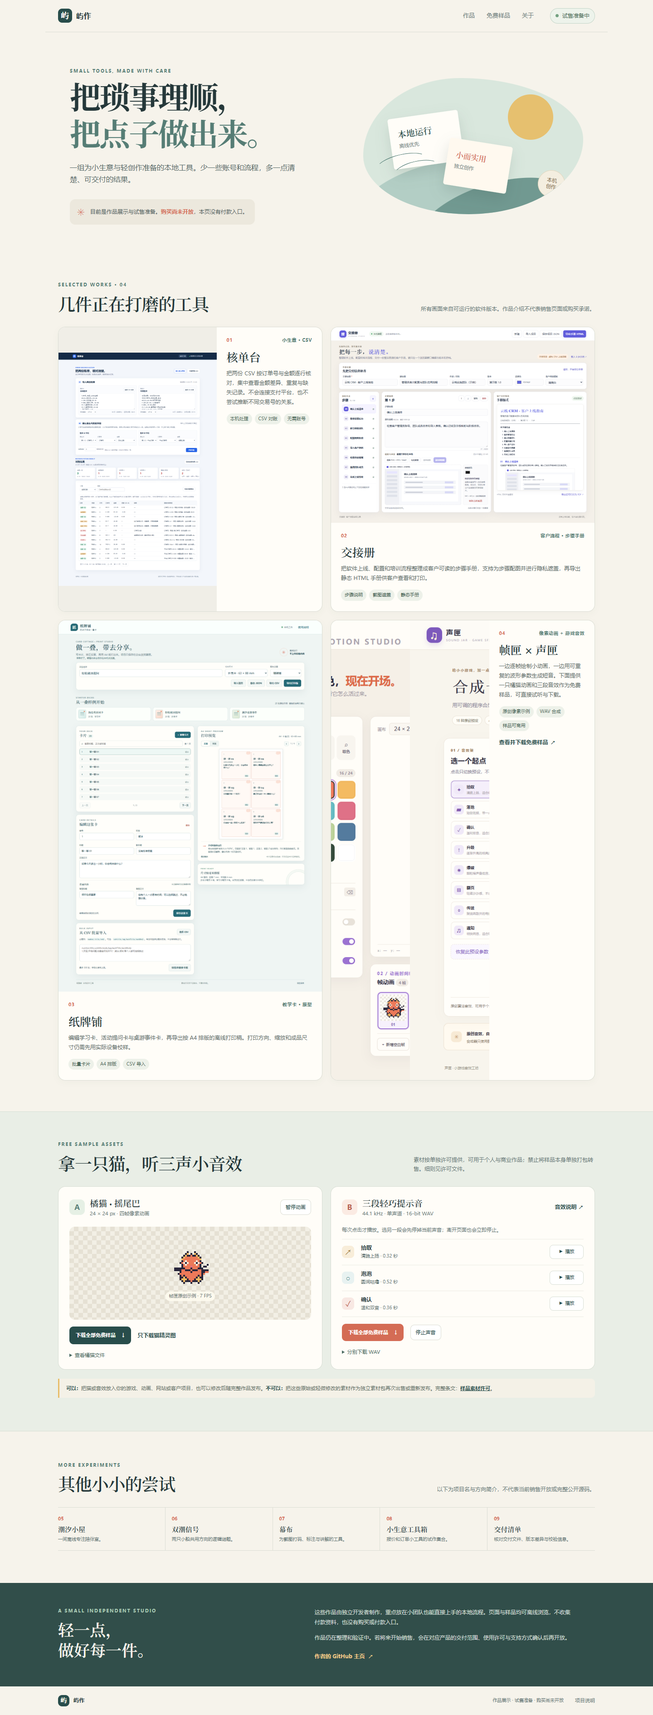
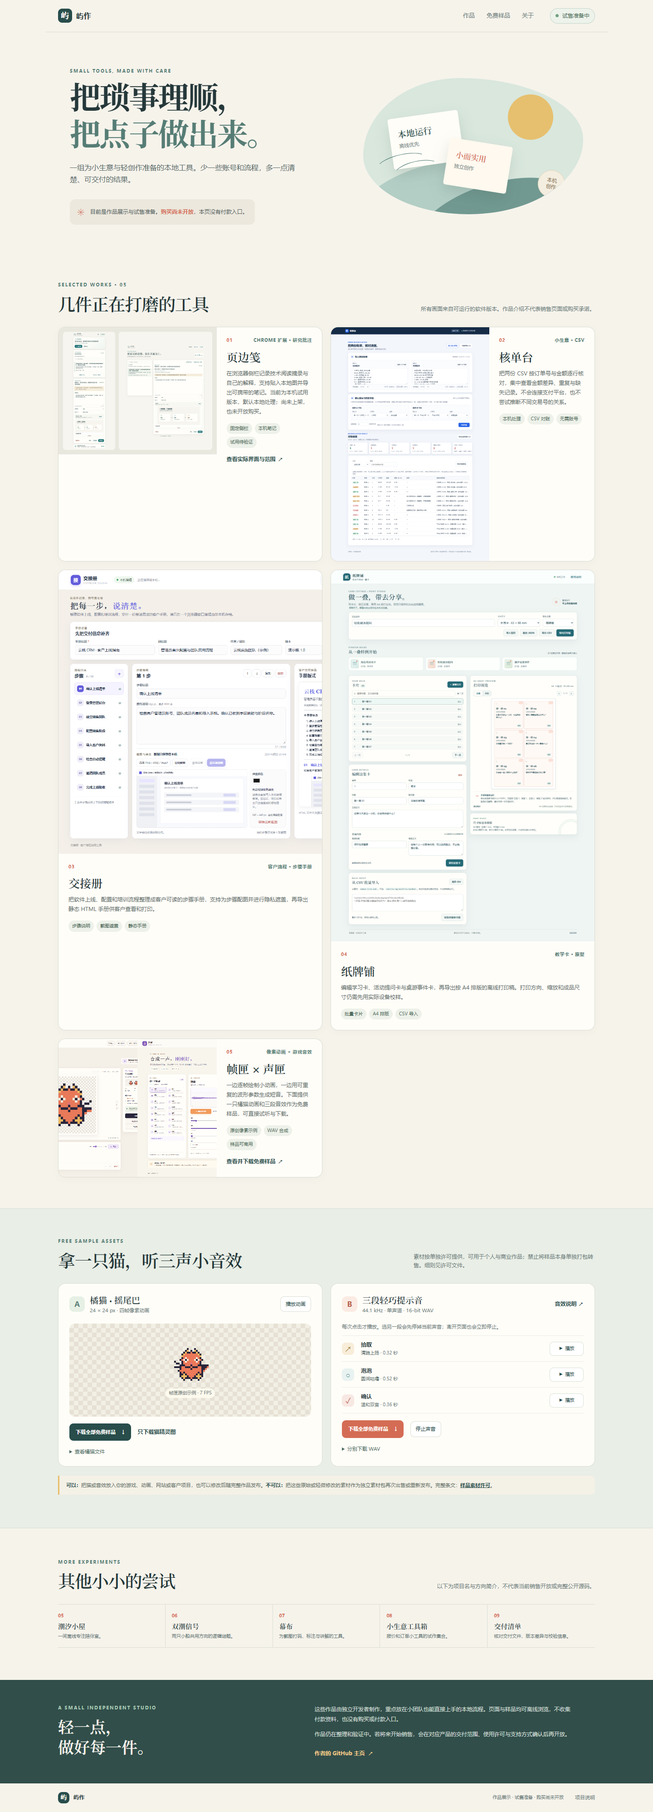
Preserve exact release bytes across clean Git checkouts

diff --git a/index.html b/index.html
@@ -33,23 +33,27 @@
     </section>
 
     <section id="featured" class="section" aria-labelledby="featured-title">
-      <div class="section-heading"><div><p class="eyebrow">SELECTED WORKS · 04</p><h2 id="featured-title">几件正在打磨的工具</h2></div><p>所有画面来自可运行的软件版本。作品介绍不代表销售页面或购买承诺。</p></div>
+      <div class="section-heading"><div><p class="eyebrow">SELECTED WORKS · 05</p><h2 id="featured-title">几件正在打磨的工具</h2></div><p>所有画面来自可运行的软件版本。作品介绍不代表销售页面或购买承诺。</p></div>
       <div class="work-grid">
+        <article class="work-card feature-wide page-margin-card">
+          <div class="work-shot twin-shots page-margin-shots"><img src="media/page-margin-sidepanel.png" alt="页边笺 Chrome 侧栏界面，显示本地试用状态、当前页面和一条示例批注" loading="lazy"><img src="media/page-margin-library.png" alt="页边笺笔记库界面，显示本地示例批注" loading="lazy"></div>
+          <div class="work-copy"><div class="card-kicker"><span>01</span><span>Chrome 扩展 · 研究批注</span></div><h3>页边笺</h3><p>在浏览器侧栏记录技术阅读摘录与自己的解释，支持贴入本地图并导出可携带的笔记。当前为本机试用版本，默认本地处理；尚未上架，也未开放购买。</p><div class="tag-row"><span>固定侧栏</span><span>本机笔记</span><span>试用待验证</span></div><a class="text-link" href="page-margin-preview.html">查看实际界面与范围 <span aria-hidden="true">↗</span></a></div>
+        </article>
         <article class="work-card feature-wide">
           <div class="work-shot shot-tall"><img src="media/reconcile-station.png" alt="核单台离线 CSV 账单比对界面截图" loading="lazy"></div>
-          <div class="work-copy"><div class="card-kicker"><span>01</span><span>小生意 · CSV</span></div><h3>核单台</h3><p>把两份 CSV 按订单号与金额逐行核对，集中查看金额差异、重复与缺失记录。不会连接支付平台，也不尝试推断不同交易号的关系。</p><div class="tag-row"><span>本机处理</span><span>CSV 对账</span><span>无需账号</span></div></div>
+          <div class="work-copy"><div class="card-kicker"><span>02</span><span>小生意 · CSV</span></div><h3>核单台</h3><p>把两份 CSV 按订单号与金额逐行核对，集中查看金额差异、重复与缺失记录。不会连接支付平台，也不尝试推断不同交易号的关系。</p><div class="tag-row"><span>本机处理</span><span>CSV 对账</span><span>无需账号</span></div></div>
         </article>
         <article class="work-card">
           <div class="work-shot"><img src="media/stepbook.png" alt="交接册客户步骤说明书编辑与预览界面截图" loading="lazy"></div>
-          <div class="work-copy"><div class="card-kicker"><span>02</span><span>客户流程 · 步骤手册</span></div><h3>交接册</h3><p>把软件上线、配置和培训流程整理成客户可读的步骤手册，支持为步骤配图并进行隐私遮盖，再导出静态 HTML 手册供客户查看和打印。</p><div class="tag-row"><span>步骤说明</span><span>截图遮盖</span><span>静态手册</span></div></div>
+          <div class="work-copy"><div class="card-kicker"><span>03</span><span>客户流程 · 步骤手册</span></div><h3>交接册</h3><p>把软件上线、配置和培训流程整理成客户可读的步骤手册，支持为步骤配图并进行隐私遮盖，再导出静态 HTML 手册供客户查看和打印。</p><div class="tag-row"><span>步骤说明</span><span>截图遮盖</span><span>静态手册</span></div></div>
         </article>
         <article class="work-card">
           <div class="work-shot"><img src="media/card-cottage.png" alt="纸牌铺 A4 双面卡片排版预览界面截图" loading="lazy"></div>
-          <div class="work-copy"><div class="card-kicker"><span>03</span><span>教学卡 · 原型</span></div><h3>纸牌铺</h3><p>编辑学习卡、活动提问卡与桌游事件卡，再导出按 A4 排版的离线打印稿。打印方向、缩放和成品尺寸仍需先用实际设备校样。</p><div class="tag-row"><span>批量卡片</span><span>A4 排版</span><span>CSV 导入</span></div></div>
+          <div class="work-copy"><div class="card-kicker"><span>04</span><span>教学卡 · 原型</span></div><h3>纸牌铺</h3><p>编辑学习卡、活动提问卡与桌游事件卡，再导出按 A4 排版的离线打印稿。打印方向、缩放和成品尺寸仍需先用实际设备校样。</p><div class="tag-row"><span>批量卡片</span><span>A4 排版</span><span>CSV 导入</span></div></div>
         </article>
         <article class="work-card feature-wide">
           <div class="work-shot twin-shots"><img src="media/frame-studio.png" alt="帧匣像素帧编辑界面截图" loading="lazy"><img src="media/sound-studio.png" alt="声匣音效编辑器界面截图" loading="lazy"></div>
-          <div class="work-copy"><div class="card-kicker"><span>04</span><span>像素动画 + 游戏音效</span></div><h3>帧匣 × 声匣</h3><p>一边逐帧绘制小动画，一边用可重复的波形参数生成短音。下面提供一只橘猫动画和三段音效作为免费样品，可直接试听与下载。</p><div class="tag-row"><span>原创像素示例</span><span>WAV 合成</span><span>样品可商用</span></div><a class="text-link" href="#samples">查看并下载免费样品 <span aria-hidden="true">↗</span></a></div>
+          <div class="work-copy"><div class="card-kicker"><span>05</span><span>像素动画 + 游戏音效</span></div><h3>帧匣 × 声匣</h3><p>一边逐帧绘制小动画，一边用可重复的波形参数生成短音。下面提供一只橘猫动画和三段音效作为免费样品，可直接试听与下载。</p><div class="tag-row"><span>原创像素示例</span><span>WAV 合成</span><span>样品可商用</span></div><a class="text-link" href="#samples">查看并下载免费样品 <span aria-hidden="true">↗</span></a></div>
         </article>
       </div>
     </section>

diff --git a/page-margin-preview.html b/page-margin-preview.html
@@ -1,0 +1,41 @@
+<!doctype html>
+<html lang="zh-CN">
+<head>
+  <meta charset="utf-8">
+  <meta name="viewport" content="width=device-width, initial-scale=1">
+  <meta http-equiv="Content-Security-Policy" content="default-src 'none'; img-src 'self'; style-src 'unsafe-inline'; connect-src 'none'; object-src 'none'; base-uri 'none'; form-action 'none'; frame-src 'none'">
+  <meta name="description" content="页边笺本机 Chrome 试用版本的真实界面截图与功能范围说明。">
+  <title>页边笺 · 本机试用界面 | 屿作</title>
+  <style>
+    :root{color-scheme:light;--ink:#25383a;--muted:#647370;--paper:#fffdf8;--cream:#f6f3eb;--line:#dcded5;--teal:#386e69;--coral:#c76552;--serif:Georgia,"Noto Serif SC","Songti SC",serif;--sans:system-ui,-apple-system,"Segoe UI","Microsoft YaHei",sans-serif}
+    *{box-sizing:border-box}body{margin:0;background:var(--cream);color:var(--ink);font:16px/1.7 var(--sans)}a{color:#285c57}a:focus-visible{outline:3px solid var(--coral);outline-offset:3px}.wrap{width:min(1120px,100% - 36px);margin:auto}.top{display:flex;justify-content:space-between;align-items:center;padding:20px 0;border-bottom:1px solid var(--line);font-size:13px}.brand{font-weight:800;text-decoration:none;letter-spacing:.08em}.eyebrow{margin:0 0 8px;color:var(--teal);font-size:11px;font-weight:800;letter-spacing:.15em}.intro{padding:54px 0 34px}.intro h1{font:600 clamp(34px,5vw,54px)/1.2 var(--serif);letter-spacing:-.03em;margin:0 0 13px}.intro p{max-width:710px;color:var(--muted);margin:0}.status{display:inline-flex;margin-top:20px;padding:8px 12px;border-radius:99px;border:1px solid #ddc6af;background:#f8eee4;color:#8c523f;font-size:12px;font-weight:700}.shots{display:grid;grid-template-columns:.8fr 1.2fr;gap:16px;align-items:start}.shot{margin:0;background:var(--paper);border:1px solid var(--line);border-radius:14px;padding:12px;box-shadow:0 9px 28px #263a3210}.shot img{display:block;width:100%;height:auto;border-radius:8px;background:#f3f0e7}.shot figcaption{padding:10px 4px 2px;color:var(--muted);font-size:12px}.section{margin:42px 0;background:var(--paper);border:1px solid var(--line);border-radius:14px;padding:24px clamp(18px,4vw,36px)}h2{font:600 24px var(--serif);margin:0 0 14px}.section p{color:#566664;margin:0 0 11px}.section ul{padding-left:20px;margin:8px 0;color:#566664}.section li{margin:5px 0}.callout{padding:14px 16px;background:#edf2eb;border-left:3px solid #5a8d78;border-radius:0 9px 9px 0}.footer{padding:0 0 40px;color:var(--muted);font-size:12px}.footer a{font-weight:700}
+    @media(max-width:700px){.wrap{width:min(100% - 26px,600px)}.intro{padding:37px 0 26px}.shots{grid-template-columns:1fr;max-width:480px;margin:auto}.shot:first-child{width:min(100%,380px);justify-self:center}.section{margin:28px 0;padding:19px 17px}}
+  </style>
+</head>
+<body>
+  <header class="wrap top"><a class="brand" href="index.html">屿作 / 作品集</a><span>页边笺 · Chrome 扩展</span></header>
+  <main class="wrap">
+    <section class="intro">
+      <p class="eyebrow">LOCAL TRIAL · INTERFACE PREVIEW</p>
+      <h1>页边笺：把阅读变成可回访的笔记</h1>
+      <p>页边笺是浏览器固定侧栏中的技术阅读批注试用版，可保存摘录、个人解释与本地图片，并导出笔记。下方是本机 Chrome 中的真实界面截图，使用虚构示例内容和自制示意图，没有客户数据。</p>
+      <span class="status">本机试用 · 尚未上架 · 未开放购买</span>
+    </section>
+    <section class="shots" aria-label="页边笺实际界面截图">
+      <figure class="shot"><img src="media/page-margin-sidepanel.png" alt="本机 Chrome 页边笺侧栏，显示摘录按钮、笔记编辑器和添加图片控件"><figcaption>固定侧栏：选择页面文字后保存摘录，并添加本机图片。</figcaption></figure>
+      <figure class="shot"><img src="media/page-margin-library.png" alt="本机 Chrome 页边笺资料库，显示本地保存的示例批注和图片"><figcaption>笔记库：检索、编辑和导出已经保存的阅读批注。</figcaption></figure>
+    </section>
+    <section class="section">
+      <h2>目前试用版的处理范围</h2>
+      <p class="callout"><strong>默认本机处理。</strong>笔记和图片保存在浏览器本机扩展存储中；没有账户、同步或远程 AI 服务。此展示页只包含说明文字与界面截图，不提供扩展安装包，也没有购买或付款入口。</p>
+      <ul>
+        <li>用户主动摘录时，扩展会临时遍历当前普通网页可见正文以定位所选内容（最多处理 2,000,000 个字符或 50,000 个文本节点）；长期保存的是所选摘录及最多 120 个字符的前后文，而不是整页正文。</li>
+        <li>支持纯文本笔记、标签、边栏颜色和每条笔记最多 3 张本地图片；支持单条图文 HTML、Markdown 加图片 ZIP 与 JSON 备份导出。</li>
+        <li>不支持 PDF、内嵌框架中的正文或跨设备同步。浏览器扩展存储不是加密保险箱；移除扩展或浏览器配置文件可能导致本机笔记无法继续访问，重要内容应定期导出备份。</li>
+      </ul>
+      <p>这是需求研究后选定的工作流试验，不代表市场需求、购买意愿或销售结果已验证。当前没有商店上架、收费功能或商业许可交付。若将来公开发行，会先明确完整安装方式、权限、隐私和授权范围。</p>
+    </section>
+    <p class="footer"><a href="index.html#featured">返回作品集</a> · 展示版本 1.1.0</p>
+  </main>
+</body>
+</html>

diff --git a/style.css b/style.css
@@ -5,3 +5,8 @@
 @media(prefers-reduced-motion:reduce){html{scroll-behavior:auto}.cat-sprite{animation-play-state:paused}.cat-stage:not(.paused) .cat-sprite{animation-play-state:running}}
 @media(max-width:780px){.masthead{padding:14px 19px;gap:17px}.masthead nav{gap:15px}.status-pill{font-size:10px;padding:5px 8px}.intro{min-height:0;padding:52px 22px 47px;grid-template-columns:1fr;gap:28px}.intro-art{height:250px;width:min(100%,460px);justify-self:center}.intro-note{margin-top:20px}.section{padding:49px 20px}.section-heading{align-items:start;flex-direction:column;gap:8px}.section-heading>p{max-width:600px}.work-grid{gap:12px}.work-card.feature-wide{grid-template-columns:1fr}.work-shot,.work-shot img,.work-shot.shot-tall img{height:220px;min-height:220px;object-fit:cover}.work-shot.twin-shots{grid-template-columns:1fr 1fr;gap:5px;padding:5px}.work-shot.twin-shots img{height:210px;min-height:210px;object-fit:cover;object-position:top}.work-copy{padding:17px 18px 19px}.samples-section{padding:50px 20px}.sample-layout{grid-template-columns:1fr}.directory-grid{grid-template-columns:repeat(2,1fr)}.directory-grid>div{padding:14px;border-bottom:1px solid var(--line)}.directory-grid>div:nth-child(2n){border-right:0}.directory-grid>div:first-child{padding-left:14px}.directory-grid>div:last-child{border-bottom:0}.about-band{padding:45px 22px;grid-template-columns:1fr;gap:17px}.footer{padding:15px 20px}}
 @media(max-width:430px){.masthead{gap:11px;padding:13px 14px}.wordmark{font-size:13px}.masthead nav{gap:11px}.masthead nav a{font-size:11px}.status-pill{font-size:9px;padding:4px 7px}.masthead .mark{width:27px;height:27px;font-size:16px}.intro{padding:45px 18px 39px}.intro h1{font-size:43px}.lead{font-size:14px}.intro-note{font-size:10px;align-items:flex-start}.intro-art{height:214px}.paper{top:48px;left:35px}.paper-b{top:109px;left:147px}.stamp{right:24px;bottom:23px}.section,.samples-section{padding-left:15px;padding-right:15px}.section-heading h2{font-size:29px}.work-grid{grid-template-columns:1fr}.work-shot,.work-shot img,.work-shot.shot-tall img{height:200px;min-height:200px}.sample-panel{padding:17px 15px}.sample-panel-head{align-items:flex-start}.sample-panel h3{font-size:17px}.sample-panel-head p{font-size:10px}.sample-panel-head>.text-link{font-size:10px;white-space:nowrap}.cat-stage{height:185px}.file-details ul{columns:1}.directory-grid>div{padding:13px 9px}.directory-grid>div:first-child{padding-left:9px}.directory-grid b{font-size:13px}.about-band{padding:40px 20px}.footer{gap:10px;flex-wrap:wrap;font-size:9px}.footer .wordmark{flex-basis:100%}}
+.page-margin-shots{display:grid;grid-template-columns:.72fr 1.28fr;gap:8px;padding:10px;height:280px;min-height:280px;background:#e9e8df}
+.page-margin-shots img{width:100%;height:100%;min-height:0;object-fit:contain;object-position:center;background:#f7f5ef;border-radius:6px}
+.page-margin-card{grid-column:1/-1}
+@media(max-width:780px){.page-margin-shots{height:225px;min-height:225px;padding:8px}.page-margin-shots img{height:100%;min-height:0;object-fit:contain}}
+@media(max-width:430px){.page-margin-shots{height:205px;min-height:205px;padding:6px;gap:5px}.page-margin-shots img{height:100%;min-height:0;object-fit:contain}}

diff --git a/VALIDATION.md b/VALIDATION.md
@@ -1,27 +1,19 @@
 # 验证记录
 
-执行环境：本机 Chrome stable、Node.js bundled runtime；对 `index.html` 使用 `file://` 打开。该页面不依赖本地服务器。
+## 1.0.1 历史复核
 
-检查范围：
+此前 Chrome `file://` 验证覆盖首页、猫与音效样品、键盘操作和响应式视口。旧展示 ZIP 为 27 项，不含完整产品实现。此记录仅用于保留旧版本结果，不代表 1.1.0 的验证。
 
-- Chrome 直接打开页面，检查本地截图、猫精灵图、三个 WAV、各下载链接及样品 ZIP 均可读取。
-- 默认动画可暂停/继续；系统开启减少动态偏好时动画初始静止，用户仍可显式选择播放。
-- WAV 只在对应试听按钮点击后播放；切换声音、“停止声音”、隐藏页面和离开页面都会暂停并归零。
-- 使用键盘 Tab 与 Enter/Space 到达导航、动画开关、试听、停止和下载链接。
-- 检查 320、390、1440 CSS 像素视口无横向溢出；外部网络请求计数为零（未点击作者 GitHub 链接）。
-- CSP 限制联网、脚本/样式外载与表单提交；静态检查页源无工作区绝对路径、令牌、店主资料或完整产品实现源码引用。
-- 构建脚本仅使用 Node 内置模块，生成样品 ZIP、展示 ZIP 和 SHA-256 清单；QA 校验 ZIP central directory、各条目 CRC 与清单中的逐文件 SHA-256。清单在展示 ZIP 外，避免对自身及包含它的 ZIP 形成循环校验。
+## 1.1.0 复核（2026-10-05）
 
-执行结果：通过。Chrome 直接从 `file://` 加载；五张产品软件截图与样品资源均成功读取。320、390、1440 像素视口均无横向溢出；页面自动网络请求为 0，浏览器控制台错误为 0。三段 WAV 在点击后播放，停止按钮、隐藏标签页事件和 pagehide 均停止声音。猫动画开关可用，减少动态偏好下初始静止；键盘可聚焦跳转链接。浏览器下载的样品 ZIP 为 85,004 字节，13 项文件全部通过解压与 CRC 检查；展示 ZIP 为 27 项，包含预览、构建脚本与截图，不含完整应用或店主数据。SHA-256 清单由同一脚本构建生成。
+- Chrome 154.0.8037.93 从 `file://` 打开 `index.html` 与 `page-margin-preview.html`，分别在 320、390、1440 CSS 像素视口加载；六种页面/宽度组合均无横向溢出、图片加载失败、控制台错误、页面异常或自动外部网络请求。
+- 首页显示五件精选作品，页边笺排在首位；说明页明确标注本机试用、尚未上架、未开放购买及本机处理范围。两页都没有表单。说明页两张界面截图均为本机 Chrome 实际画面，使用虚构阅读材料和原创示意图。
+- 重建后展开 `atelier-showcase.zip`：31 项文件，全部与外部 `SHA256.json` 中相应哈希一致；包内包含公开展示源码、七张产品截图、免费样品、说明和构建脚本，不含页边笺安装包、完整扩展代码、内部许可套件、店主后台、付款资料、测试或 Git 元数据。外部校验清单记录 32 个文件哈希，包含两个 ZIP 本身，不随展示 ZIP 内嵌。
[1 lines of base64/hex data omitted]
+- 首页 CSP 禁止自动连接外部服务，页边笺说明页仅加载本地图片和内联样式；页面无购买/付款入口，作者 GitHub 仅在访客主动点击时离开本页，自动加载期间请求数为零。
 
-## 独立复核（2026-10-05）
+QA 输入和独立浏览器结果保存在工作区 `work/atelier-showcase-qa/`，没有加入公开包。`dist/SHA256.json` 中的 `dist/atelier-showcase.zip` 条目是本次展示 ZIP 的 SHA-256；展示包不含自己的外部校验清单，以避免自引用。
 
-重新核对四张精选卡片的名称、描述和截图：第 2 张“交接册”现在展示截图步骤手册编辑器预览（`media/stepbook.png`）；“交付清单”是单独的第 09 项试作，描述文件、版本与 SHA-256 核对。品牌文字统一为“屿作”。Chrome 154 从 `file://` 打开后的标题、四个卡片名和全部五张图片均正常；桌面预览截图已重生成。
+## 页边笺截图刷新（2026-10-05）
 
-在 Chrome 中逐张解码四帧猫图与精灵图：精灵图为 96×24，四帧各 24×24；每张都保留透明像素和完全不透明像素，未见半透明像素。三个 WAV 的原文件头均为 PCM、44.1 kHz、单声道、16-bit；Chrome Web Audio 解码后时长分别为 0.32、0.52、0.36 秒，音频有有限且非静音采样。浏览器音频上下文重采样为 48 kHz，属播放设备采样率，不改变随包 WAV 文件头。实际点击试听、快速连点、停止、触发 `visibilitychange` 隐藏事件与 `pagehide` 均未留下并行或后台播放声音；快速连点后最多只有一个音频在播放。隐藏事件由自动化测试明确派发，操作系统切换前后台时序未单独实测。
-
-Chrome 实际下载了 `free-samples.zip`，Python `zipfile` 完整解压并校验 13 个成员的 CRC；样本字节与页面提供的 PNG、WAV、项目 JSON、metadata、许可及来源文件逐项一致。展示 ZIP 有 27 项，含 `media/stepbook.png`、预览、README 和构建脚本；不含完整产品源码、测试、店主数据、依赖目录、Git 元数据或私有仓库链接。README 的相对链接均在压缩包内。重建后 28 项 SHA-256 全部一致，ZIP 可完整打开。390 与 320 CSS 像素视口无横向溢出；自动外部请求、控制台错误及页面异常均为 0。
-
-许可复核分别对照帧匣与声匣原项目附带的许可：两者对其原应用/原创素材的权利人授权，包含修改、定价和销售其作品的权利；展示页 MIT 文本只涵盖展示源码、构建脚本和文档，明确排除应用、截图及样品；样品许可单独允许将所列素材作为有实质新增内容的个人或商业作品组成部分使用，同时禁止独立或轻微修改后转售素材包。展示 ZIP 与免费样品 ZIP 都带各自适用的许可/来源说明，未把 MIT 误用于软件截图或付费软件素材。
-
-独立 Chrome、ZIP 与 SHA 校验脚本及机器可读结果保存在工作区 `work/atelier-showcase-qa/`，不随公开展示包分发。样品下载链接可工作；页面 GitHub 链接只在访客主动点击后离开页面，测试未点击该链接。
+按修正后的页边笺 UI 重新运行 `work/page-margin-showcase/showcase.cjs`，从全新 Chromium 扩展配置执行真实工具栏动作，再用原创本地文章和示意 PNG 保存一条演示笔记。新截图中编辑区标题以“编辑批注”开头，按钮为“保存修改”，资料库计数只显示“1”；说明页截图解码和本地链接检查通过。最新两张 PNG 已复制到 `media/page-margin-sidepanel.png` 与 `media/page-margin-library.png` 并重新构建及校验 SHA 清单。此处只复验页边笺截图变化，没有重跑未变化的整站测试。

diff --git a/README.md b/README.md
@@ -1,6 +1,6 @@
 # 屿作 · 离线工具作品集
 
-这是一个可本地打开、可独立托管的中文静态作品展示页。它介绍四件精选工具，附带一只原创橘猫像素动画和三段原创 WAV 音效样品。
+这是一个可本地打开、可独立托管的中文静态作品展示页。1.1.0 介绍五件精选工具，附带一只原创橘猫像素动画和三段原创 WAV 音效样品。页边笺目前是本机试用版本：尚未上架、未开放购买；本展示包只包含界面截图和说明，不含可安装扩展。
 
 ## 预览与构建
 
@@ -25,12 +25,12 @@ node scripts/build.cjs
 ## 精选作品
 
 - **核单台**：在本机按订单号对比两份 CSV 的金额，定位差异、重复及缺失项。它不连接支付平台，也不处理收款。
+- **页边笺**：Chrome 侧栏中的技术阅读批注工具，支持摘录、纯文本笔记、本地图和离线导出。当前仅本机试用，尚未上架、未开放购买；展示包不包含扩展本体。
 - **交接册**：把软件实施、培训和自由职业交付流程整理成带截图步骤的客户手册，支持实色隐私遮盖并导出静态 HTML。
-- **交付清单**：在本机核对交付文件、版本差异与 SHA-256 信息；不会上传、移动或修改原文件。
 - **帧匣 × 声匣**：像素帧动画绘制与算法合成短音效。展示页只开放少量样品下载。
 - **纸牌铺**：编辑学习卡、破冰卡与桌游原型卡，预览 A4 双面排版并导出离线打印稿。打印前应先校样。
 
-页面还列出潮汐小屋、双潮信号、幕布与小生意工具箱作为其他试作。**展示包不包含这些产品的完整代码或交付包。**
+页面还列出潮汐小屋、双潮信号、幕布、小生意工具箱与交付清单作为其他试作。**展示包不包含这些产品的完整代码或交付包。**
 
 ## 开放与授权范围
 
@@ -47,3 +47,7 @@ node scripts/build.cjs
 ## 1.0.1 源码字节保留
 
 通过 `.gitattributes` 禁用 Git 的自动换行转换，保留样例文件的实际字节与校验输入。避免不同电脑检出源码后，把 UTF-8/GB18030、CRLF、引号内换行或 SHA-256 所依据的文件悄悄改写。软件/样品功能未改变；更新后的来源包会进行全新检出验证。
+
+## 1.1.0 更新
+
+新增页边笺的公开展示卡和独立截图说明页，展示真实本机 Chrome 界面。没有加入安装包、完整扩展代码、内部许可套件或付款资料；页面无购买入口。产品需求和收费意愿仍待验证。

diff --git a/SOURCE-ORIGINS.md b/SOURCE-ORIGINS.md
@@ -17,6 +17,7 @@
 - `media/frame-studio.png`：sprite-foundry / 帧匣像素编辑器界面预览。
 - `media/sound-studio.png`：sound-jar / 声匣音效编辑器界面预览。
 - `media/card-cottage.png`：card-cottage / 纸牌铺的编辑器与卡片预览界面。
+- `media/page-margin-sidepanel.png` 与 `media/page-margin-library.png`：页边笺在本机 Chrome 中的真实侧栏和笔记库截图。使用独立干净的浏览器配置文件和本项目原创示意文本/图形制作，没有客户笔记或账号资料；截图只用于界面展示，不随附可安装扩展。
 
 这些截图仅用于展示软件界面，不包含完整软件授权。截图也不应被解释为第三方客户推荐或已实现销售结果。
 
